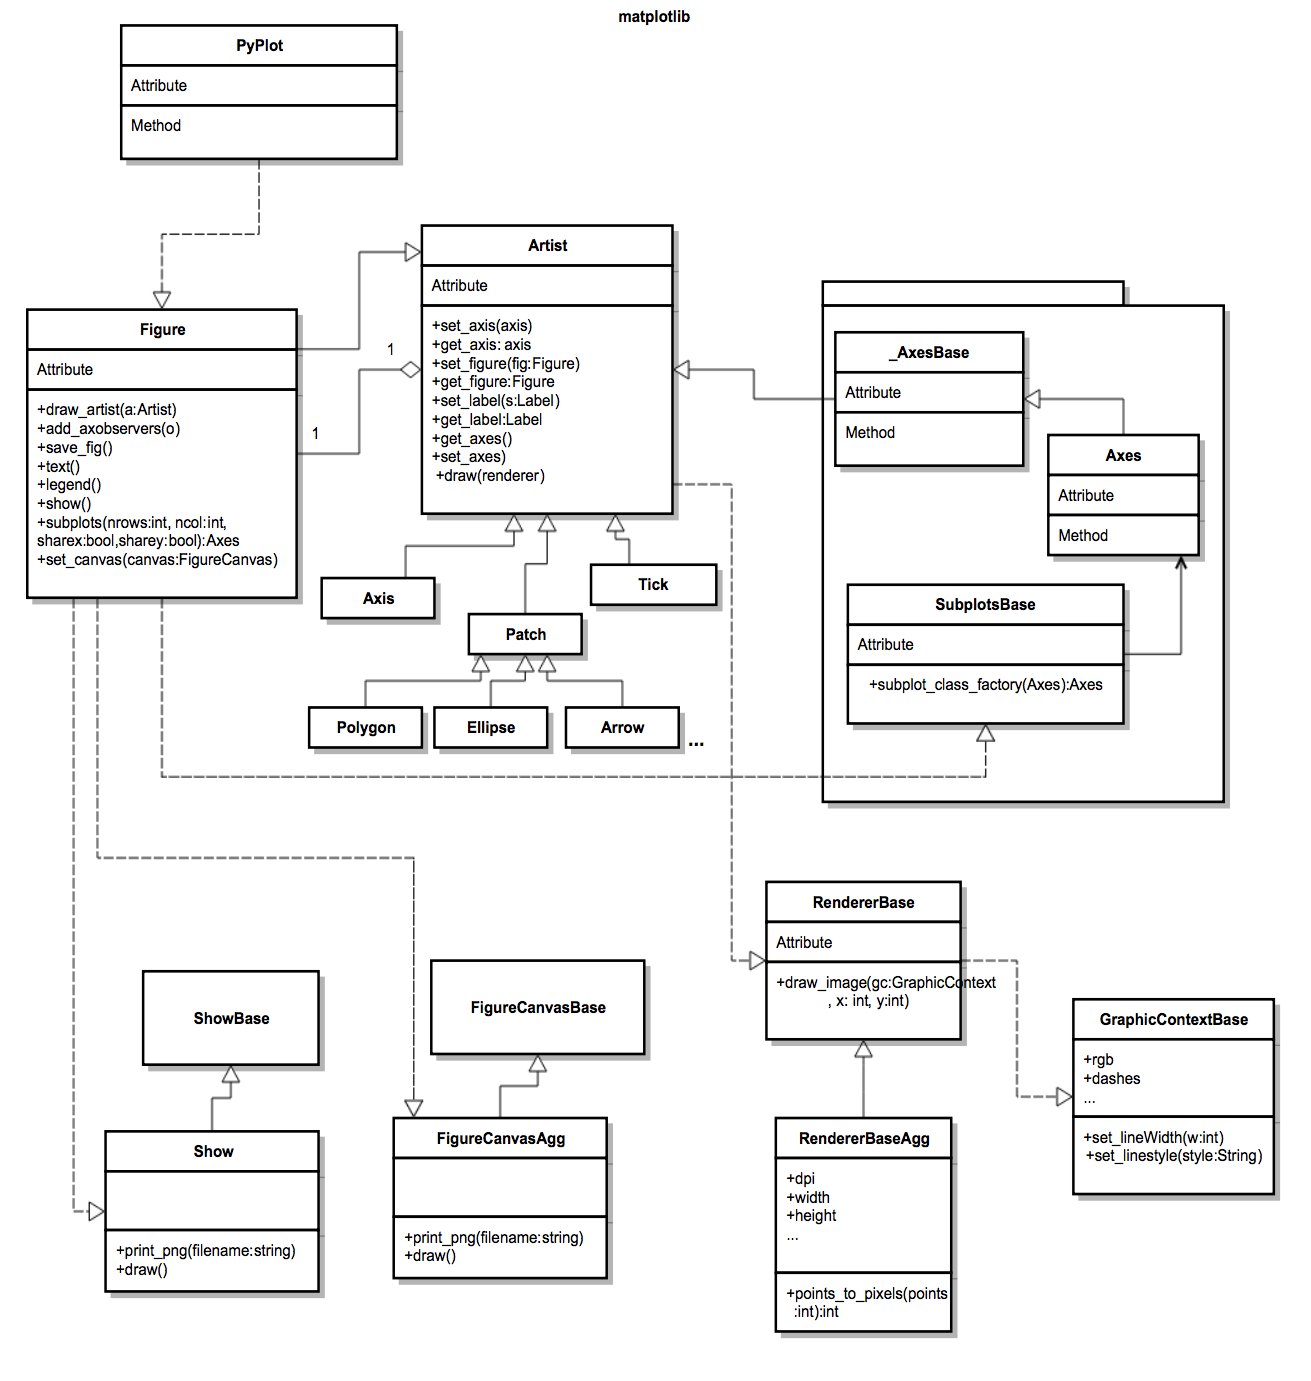
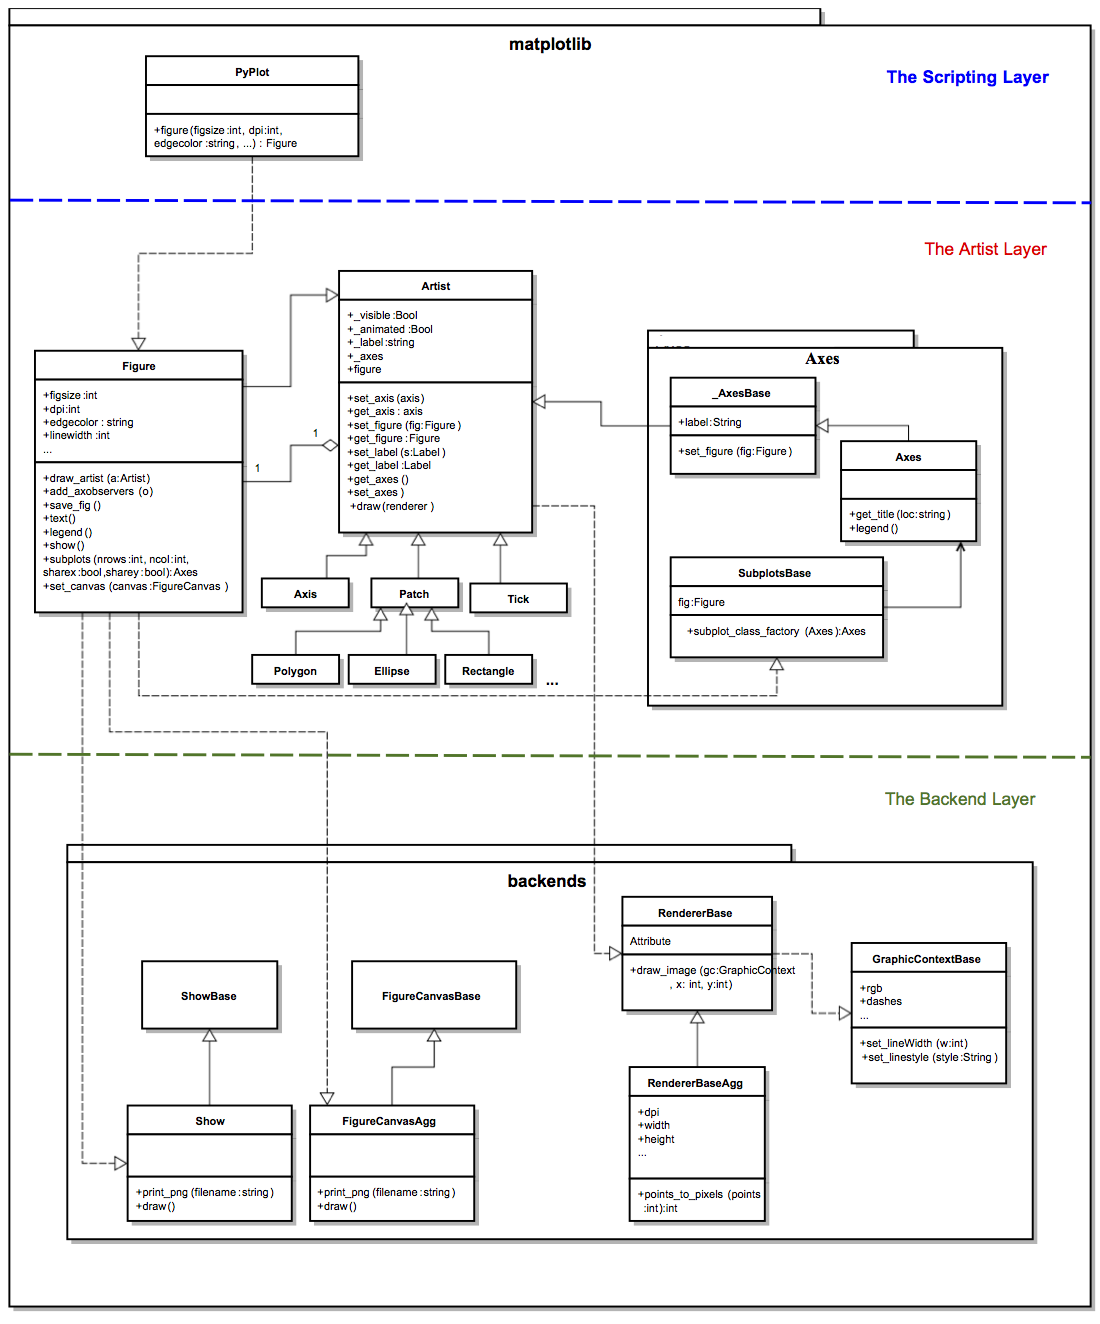
updated package diagram and added potential improvements, and general grammer fixing

diff --git a/docs/index.html b/docs/index.html
@@ -363,7 +363,7 @@
                             which it uses in its functions to tell the machine what
                             to draw. It does so through appropriate sequences of
                             method calls to the respective classes. This translate
-                            to a very high degree of coupling from the Scripting
+                            to a high degree of coupling from the Scripting
                             Layer to the Artist Layer.</p>
 
                             <p><b>The Artist Layer</b>:
@@ -390,19 +390,26 @@
                             on the screen, it calls on the Backends_bases module
                             which is the gateway to the backends package that renders
                             the pictures. The coupling between these two layers are
-                            really low.</p>
+                            low.</p>
 
                             <p><b>The Backend layer</b>: is the
                             layer which handles rendering the actual graph on screen.
                             The backend package handles displaying all the physical
                             properties of lines, such as colors and plots to show
-                            up on the screen. The classes backend_bases.FigureCanvas,
-                            backend_bases.Renderer and backend_bases.GraphicsContext
+                            up on the screen. The classes backend_bases.FigureCanvasBase,
+                            backend_bases.RendererBase and backend_bases.GraphicsContextBase
                             implement the backend layer to handle creating the canvas,
                             rendering the images, and rendering the colors respectively.</p>
 
+                           
+
                     </div>
                     <img src="images/package_diagram.png" width="800px" height="1200px" />
+                    <div>
+                     <p ><b>Potential Improvements</b> </p>
+                            <p>1) We've noticed that there were numerous imports from the Scripting Layer (pyplot) to the Artist Layer (Axes, Labels, etc). This could cause problems if any of the classes depended on gets deprecated or refactored. Also, if there was a desire to implement a new interface in place of pyplot, it could be an ordeal to ensure every needed dependencies are imported. An interface in the Artist Layer could reduce the level of coupling between it and the Scripting Layer.</p>
+                            <p>2) In the factory design pattern involving _Subplots.py to generate AxesSubplots objects, Subplot_class_factory generates different types depending on input; however, the generated classes is always inherting from SubplotBase. If new parent objects were introduced, the current design would require additional condition statements, which does not follow the Open/closed principle of Object-Oriented methodology.</p>
+                            </div>
                 </div>
             </section>
             <section id="designPattern">
@@ -464,12 +471,14 @@
                                 When the user adds a new subplot, the current figure's
                                 <a href="https://github.com/matplotlib/matplotlib/blob/master/lib/matplotlib/figure.py">add_subplot</a>                                method will run which in turn asks for a new instance
                                 of a subplot. The SubplotBase class is meant to be
-                                used an interface so we don't want the current Figure's
-                                Axes to contain an instance of it. So instead matplotlib
+                                used as an interface. We don't want the current Figure's
+                                Axes to contain an instance of SubplotBase. So instead matplotlib
                                 dynamically creates an instance of the class AxesSubplot
                                 which will have all the methods of SubplotBase. Both
                                 the SubplotsBase class and the Factory Method(subplot_class_factory)
                                 can be found <a href="https://github.com/matplotlib/matplotlib/blob/master/lib/matplotlib/axes/_subplots.py">here</a>
+
+                                <p>Note that the _Subplots class diagram does not represent a class. _Subplots is a file that holds the Subplot_class_factory() function. For the sake of simplicity and neatness we made it a class diagram.</p>
                             </p>
                         </div>
                     </div>
@@ -481,7 +490,7 @@
                             <h4><u>Adapter</u></h4>
                             <p>Not all users of matplotlib know how to use NumPy arrays
                                 and lists, but matplotlib depends heavily on NumPy.
-                                So, to answer this matplotlib allows users to give
+                                So to answer this, matplotlib allows users to give
                                 regular python lists as input to all their plotting
                                 functions. The example in the side image uses the
                                 _process_plot_var_args class located <a href="https://github.com/matplotlib/matplotlib/blob/master/lib/matplotlib/axes/_base.py">here</a>                                which contains methods that puts the data to be plotted
